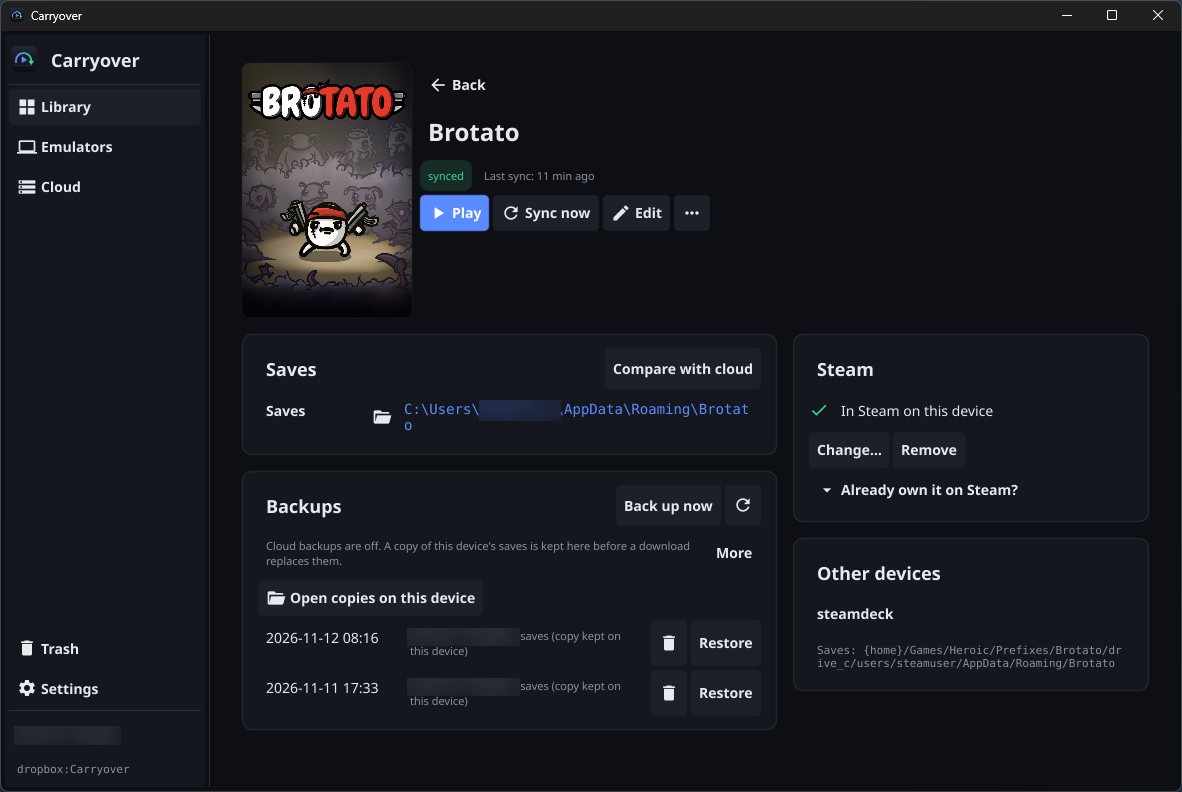
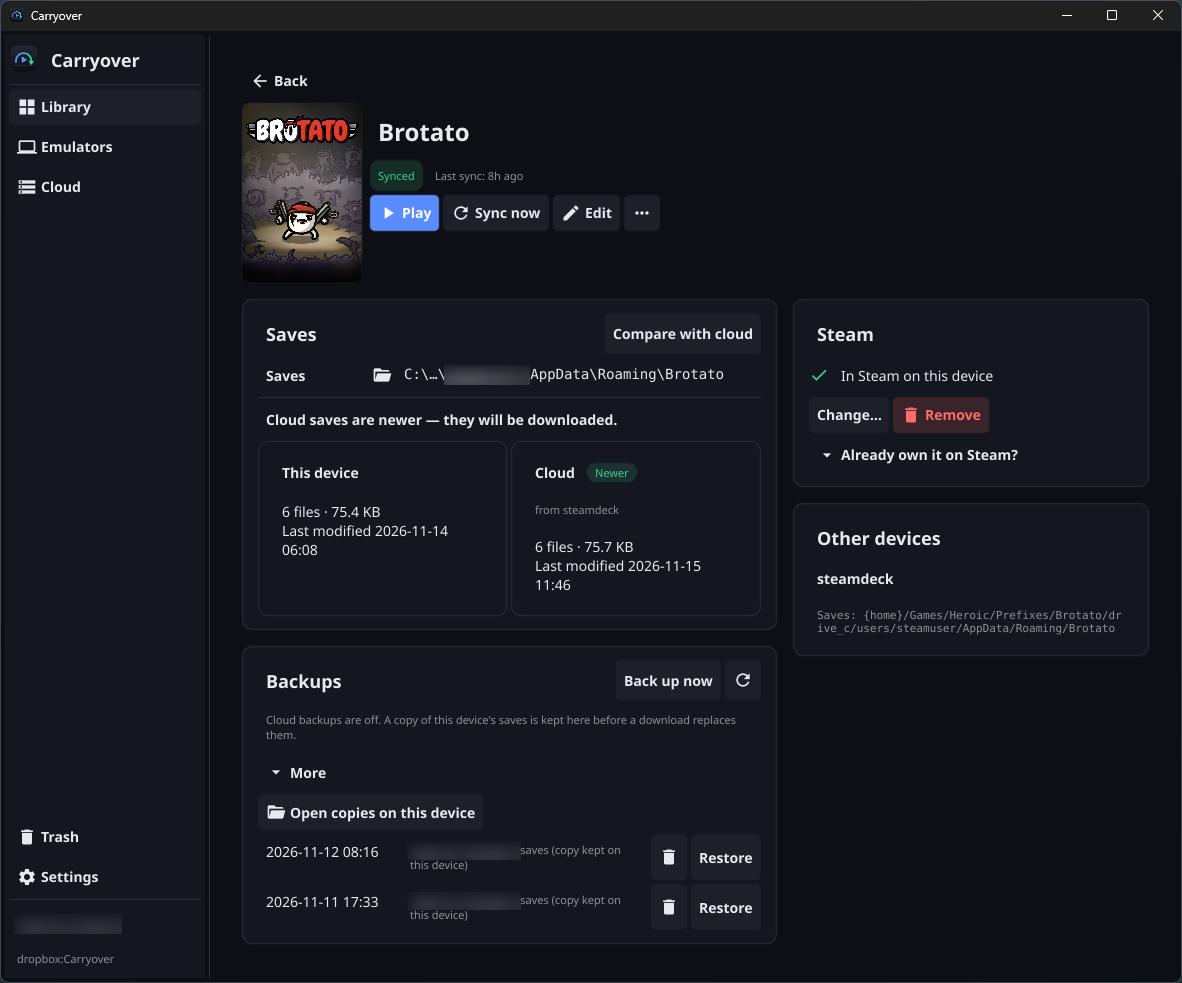
docs: update ss game detail

diff --git a/README.md b/README.md
@@ -25,7 +25,7 @@ Cloud storage: Google Drive, Dropbox, OneDrive, WebDAV (Nextcloud, ownCloud, NAS
 ## Screenshots
 
 <p align="center">
-  <img src="docs/images/screenshot_gamedetail.png" alt="Game details: sync status, Play and Sync now, save folder, backups, Steam shortcut and the save path on another device" width="800">
+  <img src="docs/images/screenshot_gamedetail.png" alt="Game details: sync status, Play and Sync now, save folder compared with the cloud, backups, Steam shortcut and the save path on another device" width="800">
 </p>
 
 ## Features
